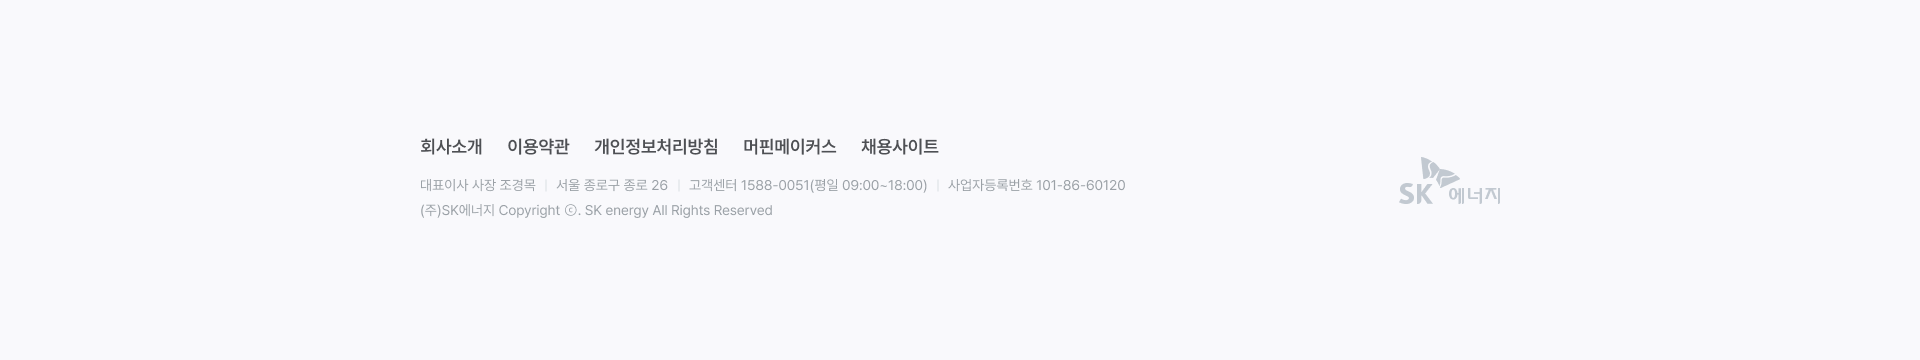
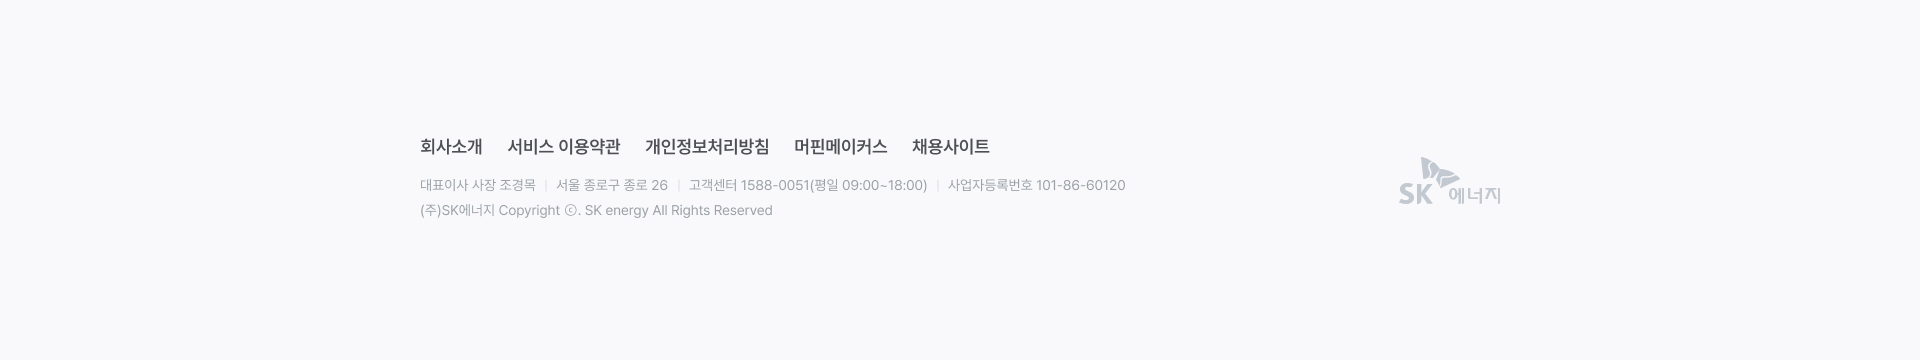
PC 피드백 반영

Changed region(s): [[0.25, 0.3667, 0.5312, 0.4278]]

diff --git a/assets/css/style.css b/assets/css/style.css
@@ -1,2 +1,2 @@
-html,body,div,span,h1,h2,h3,h4,h5,h6,p,a,strong,em,img,sub,sup,address,cite,pre,code,del,b,i,dl,dt,dd,ol,ul,li,fieldset,form,label,legend,table,caption,tbody,tfoot,thead,tr,th,td,article,aside,canvas,details,embed,figure,figcaption,footer,header,menu,nav,output,section,summary,time,mark,audio,video{margin:0;padding:0;border:0;font:inherit;font-size:100%;vertical-align:baseline}ol,ul{list-style:none}table{border-collapse:collapse;word-break:break-all}button,html input[type="button"],input[type="reset"],input[type="submit"]{overflow:visible;-webkit-appearance:button;cursor:pointer}input[type="number"]::-webkit-inner-spin-button,input[type="number"]::-webkit-outer-spin-button{height:auto}input[type="search"]::-webkit-search-cancel-button,input[type="search"]::-webkit-search-decoration{-webkit-appearance:none}html{width:100%;height:100%;font-size:62.5%;-webkit-text-size-adjust:none;-webkit-tap-highlight-color:transparent;-webkit-touch-callout:none}body{width:100%;font:1.4rem/1.5 "Pretendard", sans-serif;letter-spacing:-0.05em;word-break:keep-all;color:#666}input,button,select,textarea{margin:0;padding:0;border:0;font-size:1em;font-family:inherit;color:inherit;box-sizing:border-box;-webkit-appearance:none;vertical-align:middle;border-radius:0;background-color:transparent}caption,legend,hr{display:none}em,address,i{font-style:normal}img{max-width:100%;vertical-align:middle}a{color:inherit;text-decoration:none}strong,b{font-weight:700}a,button,input,img,div,span{-webkit-tap-highlight-color:transparent;-webkit-touch-callout:none;outline:none}@font-face{font-family:"Pretendard";src:url("../font/Pretendard-Regular.eot");src:url("../font/Pretendard-Regular.woff2") format("woff2"),url("../font/Pretendard-Regular.woff") format("woff")}@font-face{font-family:"Pretendard";font-weight:600;src:url("../font/Pretendard-Medium.eot");src:url("../font/Pretendard-Medium.woff2") format("woff2"),url("../font/Pretendard-Medium.woff") format("woff")}@font-face{font-family:"Pretendard";font-weight:700;src:url("../font/Pretendard-Bold.eot");src:url("../font/Pretendard-Bold.woff2") format("woff2"),url("../font/Pretendard-Bold.woff") format("woff")}html{box-sizing:border-box;max-height:99999em}html,body{height:100%}.hidden{display:none !important}#wrapper{position:relative;width:100%;min-width:128rem;height:100%}#mo-wrapper{position:relative;width:100%;height:100%}.container,.mo-container{height:100%}.header{position:fixed;top:0;left:0;right:0;z-index:50;padding:49px 80px}.logo{width:133px;height:60px;background:url(../img/logo.svg) 0 0/100% auto no-repeat;filter:brightness(100);font:0/0 a}.logo.active{filter:brightness(1)}.logo-footer{display:inline-block;width:101px;height:47px;background:url(../img/logo-footer.svg) 0 0/100% auto no-repeat;font:0/0 a}.icon-aos{display:inline-block;width:32px;height:32px;margin:35px 10px 0 0;background:url(../img/icon-aos.svg) 0 0/100% auto no-repeat;vertical-align:top;font:0/0 a}.icon-ios{display:inline-block;width:60px;height:47px;margin:23px -10px 0 -10px;background:url(../img/icon-ios.svg) 0 0/auto 100% no-repeat;vertical-align:top;font:0/0 a}.wrap-btn .btn{margin-left:10px}.wrap-btn .btn:first-of-type{margin-left:0}.btn{display:inline-block;width:250px;height:103px;border:1px solid #e7e9ed;border-radius:20px;font-weight:700;font-size:24px;text-align:center;line-height:103px;letter-spacing:0}.section{width:100%;height:1080px;position:relative}.section .section-inner{position:relative;max-width:1920px;height:100%;margin:0 auto}.section .box-text{position:absolute;top:50%;left:50%;margin-left:-540px;transform:translateY(-50%);z-index:2}.section .box-text .title{color:#171718;font-size:56px;font-weight:700;line-height:1.25;letter-spacing:0}.section .box-text .desc{margin-top:20px;color:#4e5054;font-size:32px;font-weight:600;line-height:1.3;letter-spacing:0}.section .box-text .sub-title{margin-bottom:12px;padding-left:4px;color:#4e5054;font-size:30px;font-weight:600;letter-spacing:0}.section .box-img{position:absolute;top:50%;left:50%;display:flex;align-items:center;justify-content:center;width:999px;height:976px;margin:-488px 0 0 -205px;z-index:1}.section .box-img .section-img{display:inline-block}.section.section1{height:100vh;color:#fff;background:url(../img/bg-visual-side.png) 0 0/auto 100% repeat-x}.section.section1 .section-inner{background:url(../img/bg-visual.png) center top/auto 100% no-repeat}.section.section1 .box-text .title{color:#fff;font-size:76px;font-weight:600;line-height:1.15}.section.section1 .wrap-imgs{position:relative;width:620px;height:620px;margin-top:110px}.section.section1 .section-img{position:absolute;top:0;left:0;opacity:0;transition:opacity 0.6s cubic-bezier(0.65, 0, 0.35, 1)}.section.section1 .section-img.active{opacity:1;transition:opacity 0.8s cubic-bezier(0.65, 0, 0.35, 1)}.section.section1 .wrap-word{position:relative;margin-left:0.25em}.section.section1 .wrap-word .item{position:absolute;top:0.03em;left:0;opacity:0;transform:translateY(0.2em);transition:opacity 0.3s cubic-bezier(0.65, 0, 0.35, 1),transform 0.6s 1.5s cubic-bezier(0.65, 0, 0.35, 1)}.section.section1 .wrap-word .item.active{opacity:1;transform:translateY(0);transition:opacity 0.6s cubic-bezier(0.65, 0, 0.35, 1),transform 0.8s cubic-bezier(0.65, 0, 0.35, 1)}.section.section2 .section-img{width:700px;height:700px}.section.section3 .section-img{width:720px;height:720px;margin-top:40px}.section.section4 .section-img{width:700px;height:700px}.section.section5 .section-img{width:300px;height:300px}.section.section5 .box-text{padding-top:30px}.section.section5 .wrap-btn{margin-top:60px}.floating-wrap{position:relative}.floating-wrap .floating{position:fixed;right:30px;bottom:30px;width:128px;height:160px;border-radius:20px;background:#fff;z-index:50}.floating-wrap .floating .floating-title{margin-top:24px;color:#171718;font-size:18px;font-weight:700;text-align:center;letter-spacing:0}.floating-wrap .floating .floating-qr{width:69px;height:69px;margin:7px auto 0}.floating-wrap .floating .floating-qr img{width:100%}.floating-wrap .floating.active{box-shadow:0px 6px 16px rgba(0,0,0,0.16)}.floating-wrap .floating.fix{position:absolute}.footer{position:relative;background-color:#f9f9fc}.footer .footer-inner{position:relative;width:1080px;margin:0 auto;padding:140px 0}.footer .wrap-links{display:flex;padding-left:1px}.footer .wrap-links .item{display:inline-block;font-size:16px;font-weight:600;line-height:1.2;color:#4e5054;letter-spacing:0.115em}.footer .wrap-links .item:not(:first-of-type){margin-left:24px}.footer .wrap-info{display:flex;margin-top:16px}.footer .wrap-info .item{font-size:14px;line-height:1.75;color:#9ba1a7;letter-spacing:0}.footer .wrap-info .item:not(:first-of-type){position:relative;padding-left:21px}.footer .wrap-info .item:not(:first-of-type):after{content:"";position:absolute;left:10px;top:50%;width:1px;height:12px;margin-top:-6px;background-color:#dadfe3}.footer .copyright{font-size:14px;line-height:1.75;color:#9ba1a7;letter-spacing:0}.footer .logo-footer{position:absolute;right:0;top:50%;margin-top:-24px}@-webkit-keyframes txtAni{0%{opacity:0;transform:translateY(-5rem)}100%{opacity:1;transform:translateY(0)}}@keyframes txtAni{0%{opacity:0;transform:translateY(-5rem)}100%{opacity:1;transform:translateY(0)}}
[1 lines of base64/hex data omitted]
+html,body,div,span,h1,h2,h3,h4,h5,h6,p,a,strong,em,img,sub,sup,address,cite,pre,code,del,b,i,dl,dt,dd,ol,ul,li,fieldset,form,label,legend,table,caption,tbody,tfoot,thead,tr,th,td,article,aside,canvas,details,embed,figure,figcaption,footer,header,menu,nav,output,section,summary,time,mark,audio,video{margin:0;padding:0;border:0;font:inherit;font-size:100%;vertical-align:baseline}ol,ul{list-style:none}table{border-collapse:collapse;word-break:break-all}button,html input[type="button"],input[type="reset"],input[type="submit"]{overflow:visible;-webkit-appearance:button;cursor:pointer}input[type="number"]::-webkit-inner-spin-button,input[type="number"]::-webkit-outer-spin-button{height:auto}input[type="search"]::-webkit-search-cancel-button,input[type="search"]::-webkit-search-decoration{-webkit-appearance:none}html{width:100%;height:100%;font-size:62.5%;-webkit-text-size-adjust:none;-webkit-tap-highlight-color:transparent;-webkit-touch-callout:none}body{width:100%;font:1.4rem/1.5 "Pretendard", sans-serif;letter-spacing:-0.05em;word-break:keep-all;color:#666}input,button,select,textarea{margin:0;padding:0;border:0;font-size:1em;font-family:inherit;color:inherit;box-sizing:border-box;-webkit-appearance:none;vertical-align:middle;border-radius:0;background-color:transparent}caption,legend,hr{display:none}em,address,i{font-style:normal}img{max-width:100%;vertical-align:middle}a{color:inherit;text-decoration:none}strong,b{font-weight:700}a,button,input,img,div,span{-webkit-tap-highlight-color:transparent;-webkit-touch-callout:none;outline:none}@font-face{font-family:"Pretendard";src:url("../font/Pretendard-Regular.eot");src:url("../font/Pretendard-Regular.woff2") format("woff2"),url("../font/Pretendard-Regular.woff") format("woff")}@font-face{font-family:"Pretendard";font-weight:600;src:url("../font/Pretendard-Medium.eot");src:url("../font/Pretendard-Medium.woff2") format("woff2"),url("../font/Pretendard-Medium.woff") format("woff")}@font-face{font-family:"Pretendard";font-weight:700;src:url("../font/Pretendard-Bold.eot");src:url("../font/Pretendard-Bold.woff2") format("woff2"),url("../font/Pretendard-Bold.woff") format("woff")}html{box-sizing:border-box;max-height:99999em}html,body{height:100%}.hidden{display:none !important}#wrapper{position:relative;width:100%;min-width:128rem;height:100%}#mo-wrapper{position:relative;width:100%;height:100%}.container,.mo-container{height:100%}.header{position:fixed;top:0;left:0;right:0;z-index:50;padding:49px 80px}.logo{width:133px;height:60px;background:url(../img/logo.svg) 0 0/100% auto no-repeat;filter:brightness(100);font:0/0 a}.logo.active{filter:brightness(1)}.logo-footer{display:inline-block;width:101px;height:47px;background:url(../img/logo-footer.svg) 0 0/100% auto no-repeat;font:0/0 a}.icon-aos{display:inline-block;width:32px;height:32px;margin:35px 10px 0 0;background:url(../img/icon-aos.svg) 0 0/100% auto no-repeat;vertical-align:top;font:0/0 a}.icon-ios{display:inline-block;width:60px;height:47px;margin:23px -10px 0 -10px;background:url(../img/icon-ios.svg) 0 0/auto 100% no-repeat;vertical-align:top;font:0/0 a}.wrap-btn .btn{margin-left:10px}.wrap-btn .btn:first-of-type{margin-left:0}.btn{display:inline-block;width:250px;height:103px;border:1px solid #e7e9ed;border-radius:20px;font-weight:700;font-size:24px;text-align:center;line-height:103px;letter-spacing:0}.section{width:100%;height:1080px;position:relative}.section .section-inner{position:relative;height:100%;margin:0 auto}.section .box-text{position:absolute;top:50%;left:50%;margin-left:-540px;transform:translateY(-50%);z-index:2}.section .box-text .title{color:#171718;font-size:56px;font-weight:700;line-height:1.25;letter-spacing:0}.section .box-text .desc{margin-top:20px;color:#4e5054;font-size:32px;font-weight:600;line-height:1.3;letter-spacing:0}.section .box-text .sub-title{margin-bottom:12px;padding-left:4px;color:#4e5054;font-size:30px;font-weight:600;letter-spacing:0}.section .box-img{position:absolute;top:50%;left:50%;display:flex;align-items:center;justify-content:center;width:999px;height:976px;margin:-488px 0 0 -205px;z-index:1}.section .box-img .section-img{display:inline-block}.section.section1{height:100vh;color:#fff;background:url(../img/bg-visual-side.png) 0 0/auto 100% repeat-x}.section.section1 .section-inner{background:url(../img/bg-visual.png) center top/auto 100% no-repeat}.section.section1 .box-text .title{color:#fff;font-size:76px;font-weight:600;line-height:1.15}.section.section1 .wrap-imgs{position:relative;width:620px;height:620px;margin-top:110px}.section.section1 .section-img{position:absolute;top:0;left:0;opacity:0;transition:opacity 0.6s cubic-bezier(0.65, 0, 0.35, 1)}.section.section1 .section-img.active{opacity:1;transition:opacity 0.8s cubic-bezier(0.65, 0, 0.35, 1)}.section.section1 .wrap-word{position:relative;margin-left:0.25em}.section.section1 .wrap-word .item{position:absolute;top:0.03em;left:0;opacity:0;transform:translateY(0.2em);transition:opacity 0.3s cubic-bezier(0.65, 0, 0.35, 1),transform 0.6s 1.5s cubic-bezier(0.65, 0, 0.35, 1)}.section.section1 .wrap-word .item.active{opacity:1;transform:translateY(0);transition:opacity 0.6s cubic-bezier(0.65, 0, 0.35, 1),transform 0.8s cubic-bezier(0.65, 0, 0.35, 1)}.section.section2 .section-img{width:700px;height:700px}.section.section3 .section-img{width:720px;height:720px;margin-top:40px}.section.section4 .section-img{width:700px;height:700px}.section.section5 .section-img{width:300px;height:300px}.section.section5 .box-text{padding-top:30px}.section.section5 .wrap-btn{margin-top:60px}.floating-wrap{position:relative}.floating-wrap .floating{position:fixed;right:30px;bottom:30px;width:128px;height:160px;border-radius:20px;background:#fff;z-index:50}.floating-wrap .floating .floating-title{margin-top:24px;color:#171718;font-size:18px;font-weight:700;text-align:center;letter-spacing:0}.floating-wrap .floating .floating-qr{width:69px;height:69px;margin:7px auto 0}.floating-wrap .floating .floating-qr img{width:100%}.floating-wrap .floating.active{box-shadow:0px 6px 16px rgba(0,0,0,0.16)}.floating-wrap .floating.fix{position:absolute}.footer{position:relative;background-color:#f9f9fc}.footer .footer-inner{position:relative;width:1080px;margin:0 auto;padding:140px 0}.footer .wrap-links{display:flex;padding-left:1px}.footer .wrap-links .item{display:inline-block;font-size:18px;font-weight:600;line-height:1.2;color:#4e5054;letter-spacing:0}.footer .wrap-links .item:not(:first-of-type){margin-left:24px}.footer .wrap-info{display:flex;margin-top:16px}.footer .wrap-info .item{font-size:14px;line-height:1.75;color:#9ba1a7;letter-spacing:0}.footer .wrap-info .item:not(:first-of-type){position:relative;padding-left:21px}.footer .wrap-info .item:not(:first-of-type):after{content:"";position:absolute;left:10px;top:50%;width:1px;height:12px;margin-top:-6px;background-color:#dadfe3}.footer .copyright{font-size:14px;line-height:1.75;color:#9ba1a7;letter-spacing:0}.footer .logo-footer{position:absolute;right:0;top:50%;margin-top:-24px}@-webkit-keyframes txtAni{0%{opacity:0;transform:translateY(-5rem)}100%{opacity:1;transform:translateY(0)}}@keyframes txtAni{0%{opacity:0;transform:translateY(-5rem)}100%{opacity:1;transform:translateY(0)}}
[1 lines of base64/hex data omitted]

diff --git a/index.html b/index.html
@@ -119,7 +119,7 @@
         <div class="footer-inner">
           <div class="wrap-links">
             <a href="http://www.skenergy.com/company/overview.asp" target="_blank" class="item">회사소개</a>
-            <a href="https://mfo.skmuffin.com/terms/termsOfUse.html" target="_blank" class="item">이용약관</a>
+            <a href="https://mfo.skmuffin.com/terms/termsOfUse.html" target="_blank" class="item">서비스 이용약관</a>
             <a href="https://mfo.skmuffin.com/terms/privacyPolicy.html" target="_blank" class="item">개인정보처리방침</a>
             <a href="https://sketts.tistory.com/" target="_blank" class="item">머핀메이커스</a>
             <a href="https://sketts.tistory.com/category/Recruit" target="_blank" class="item">채용사이트</a>

diff --git a/assets/style/main/_main.scss b/assets/style/main/_main.scss
@@ -80,7 +80,7 @@
 
   .section-inner {
     position: relative;
-    max-width: 1920px;
+    // max-width: 1920px;
     height: 100%;
     margin: 0 auto;
   }
@@ -282,11 +282,11 @@
 
     .item {
       display: inline-block;
-      font-size: 16px;
+      font-size: 18px;
       font-weight: 600;
       line-height: 1.2;
       color: $pc4;
-      letter-spacing: 0.115em;
+      letter-spacing: 0;
 
       &:not(:first-of-type) {
         margin-left: 24px;
